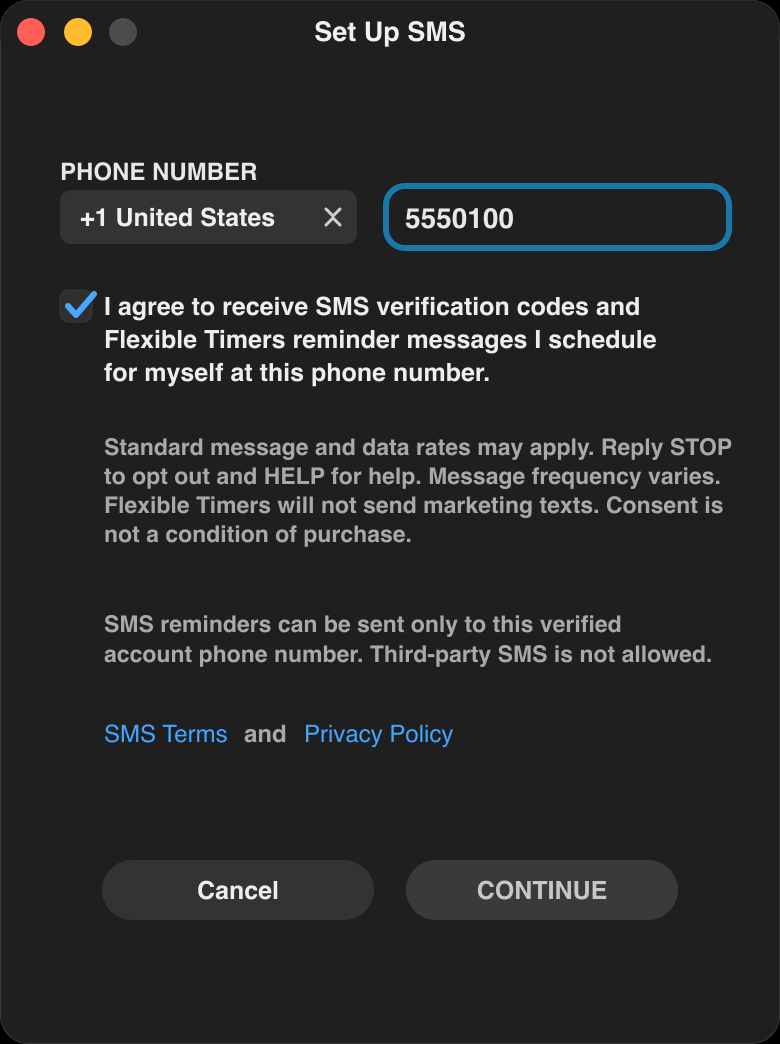
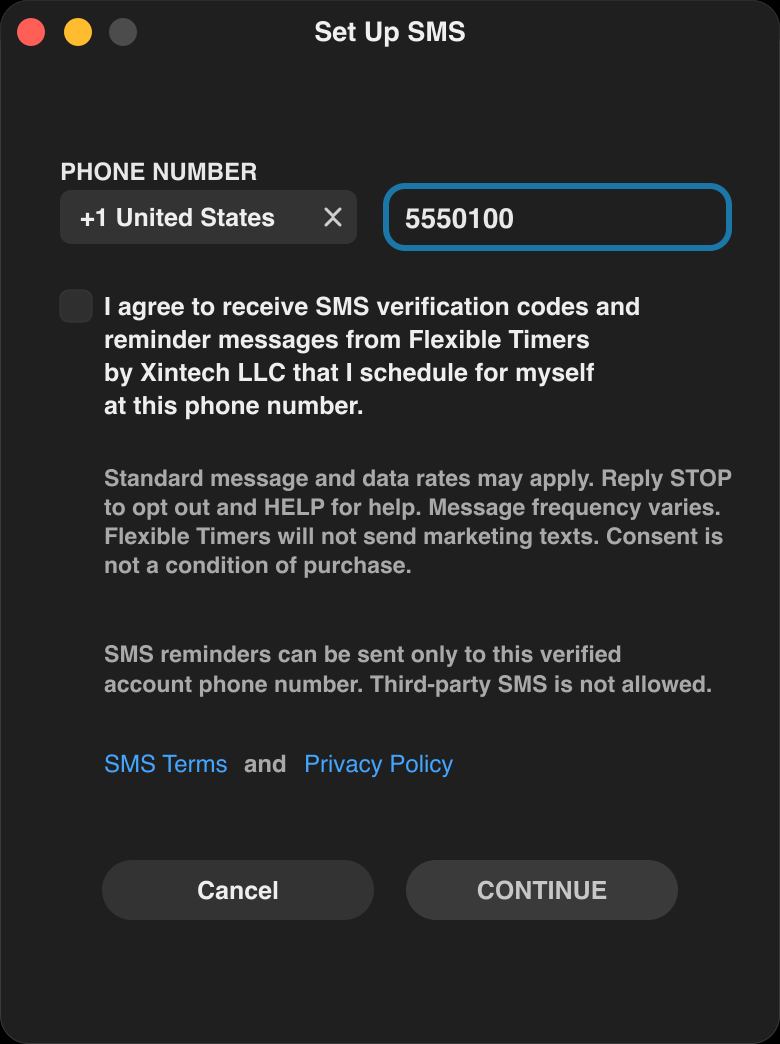
Clarify SMS opt-in compliance pages

Changed region(s): [[0.1231, 0.3065, 0.9538, 0.5517], [0.1231, 0.5824, 0.9231, 0.7356], [0.0923, 0.2759, 0.1231, 0.3065]]

diff --git a/index.html b/index.html
@@ -88,12 +88,12 @@
       </div>
     </header>
     <main id="top">
-      <section class="hero" aria-labelledby="hero-title"><div><h1 id="hero-title">Flexible Timers</h1><p class="hero-lede">Timers, countdowns, clocks, reports, sounds, and account reminders for Mac, iPhone, and iPad.</p></div><div class="hero-visual" aria-label="Flexible Timers app screenshots"><div class="device-stage"><div class="desktop-card"><div class="window-bar" aria-hidden="true"><span class="traffic"></span><span class="traffic"></span><span class="traffic"></span><span class="window-title">Flexible Timers for Mac</span></div><figure class="shot"><img src="assets/flexible-timers/macos/1-single-light.png" alt="Flexible Timers macOS main timer window in light mode" width="1800" height="1125" loading="eager"></figure></div><div class="phone-card" aria-label="Flexible Timers iPhone screenshot"><figure class="shot"><img src="assets/flexible-timers/ios/iphone-6.9-1-timers-light.png" alt="Flexible Timers iPhone timer list in light mode" width="736" height="1600" loading="eager"></figure></div><div class="tablet-card" aria-label="Flexible Timers iPad screenshot"><figure class="shot"><img src="assets/flexible-timers/ios/ipad-13-1-timers-light.png" alt="Flexible Timers iPad timer list in light mode" width="1200" height="1600" loading="eager"></figure></div></div></div></section>
+      <section class="hero" aria-labelledby="hero-title"><div><h1 id="hero-title">Flexible Timers</h1><p class="hero-lede">Timers, countdowns, clocks, reports, sounds, and account reminders for Mac, iPhone, and iPad. Operated by Xintech LLC.</p></div><div class="hero-visual" aria-label="Flexible Timers app screenshots"><div class="device-stage"><div class="desktop-card"><div class="window-bar" aria-hidden="true"><span class="traffic"></span><span class="traffic"></span><span class="traffic"></span><span class="window-title">Flexible Timers for Mac</span></div><figure class="shot"><img src="assets/flexible-timers/macos/1-single-light.png" alt="Flexible Timers macOS main timer window in light mode" width="1800" height="1125" loading="eager"></figure></div><div class="phone-card" aria-label="Flexible Timers iPhone screenshot"><figure class="shot"><img src="assets/flexible-timers/ios/iphone-6.9-1-timers-light.png" alt="Flexible Timers iPhone timer list in light mode" width="736" height="1600" loading="eager"></figure></div><div class="tablet-card" aria-label="Flexible Timers iPad screenshot"><figure class="shot"><img src="assets/flexible-timers/ios/ipad-13-1-timers-light.png" alt="Flexible Timers iPad timer list in light mode" width="1200" height="1600" loading="eager"></figure></div></div></div></section>
       <section class="section" id="features" aria-label="Flexible timer features"><div class="feature-grid"><article class="feature-card"><h3>Flexible task types</h3><p>Timers, end-time countdowns, world clocks, and account reminder tasks.</p></article><article class="feature-card"><h3>Task sets</h3><p>Separate work, cooking, study, travel, and reusable routines.</p></article><article class="feature-card"><h3>Reports and archives</h3><p>Review snapshots, add notes, and send reports to your account email.</p></article><article class="feature-card"><h3>Sounds and notifications</h3><p>Use bundled sounds, custom sounds, beeps, and local notifications.</p></article></div></section>
       <section class="section platform-section" aria-label="Flexible Timers platforms"><article class="platform" id="mac"><div class="platform-copy"><h2>Built for focused timer work on Mac.</h2><p>SwiftUI timers with task sets, reports, sync, custom sounds, and menu-bar status.</p><div class="platform-list"><div class="platform-item"><span class="check">✓</span><span>Single or expanded timer layouts.</span></div><div class="platform-item"><span class="check">✓</span><span>Menu-bar status for the active timer.</span></div><div class="platform-item"><span class="check">✓</span><span>Timers, countdowns, clocks, and reminder tasks.</span></div><div class="platform-item"><span class="check">✓</span><span>Sync, archives, reports, and custom sounds.</span></div></div></div><div class="shot-stack"><figure class="shot"><img src="assets/flexible-timers/macos/3-double-light.png" alt="Flexible Timers macOS expanded double-column timer window" width="1800" height="1125" loading="eager"></figure><div class="shot-row"><figure class="shot"><img src="assets/flexible-timers/macos/5-addtimer-light.png" alt="Flexible Timers macOS add timer sheet in light mode" width="1800" height="1125" loading="eager"></figure><figure class="shot"><img src="assets/flexible-timers/macos/7-addcountdown-light.png" alt="Flexible Timers macOS add countdown sheet in light mode" width="1800" height="1125" loading="eager"></figure></div></div></article><article class="platform reverse" id="ios"><div class="phone-showcase"><div class="phone-screen"><figure class="shot"><img src="assets/flexible-timers/ios/iphone-6.9-1-timers-light.png" alt="Flexible Timers iPhone screenshot" width="736" height="1600" loading="eager"></figure></div><div class="phone-screen"><figure class="shot"><img src="assets/flexible-timers/ios/iphone-6.9-4-add-light.png" alt="Flexible Timers iPhone screenshot" width="736" height="1600" loading="eager"></figure></div><div class="phone-screen"><figure class="shot"><img src="assets/flexible-timers/ios/iphone-6.9-6-settings-light.png" alt="Flexible Timers iPhone screenshot" width="736" height="1600" loading="eager"></figure></div><div class="phone-screen"><figure class="shot"><img src="assets/flexible-timers/ios/iphone-6.9-7-report-light.png" alt="Flexible Timers iPhone screenshot" width="736" height="1600" loading="eager"></figure></div></div><div class="platform-copy"><h2>The same timer system on iPhone and iPad.</h2><p>Timers, clocks, reports, settings, sync, notifications, and sounds on iPhone and iPad.</p><div class="platform-list"><div class="platform-item"><span class="check">✓</span><span>iPhone list and iPad grid layouts.</span></div><div class="platform-item"><span class="check">✓</span><span>Create timers, countdowns, clocks, and reminders.</span></div><div class="platform-item"><span class="check">✓</span><span>Reports, settings, sounds, and sync.</span></div></div></div></article></section>
       <section class="section" id="sync" aria-labelledby="sync-title"><div class="account-panel"><div><h2 id="sync-title">Sync, reports, and reminders.</h2><p>Keep timer data in your account and send updates only to your saved contact points.</p></div><div class="account-list"><div class="account-row"><strong>Sync across devices</strong><span>Task sets, archives, settings, and sounds follow your account.</span></div><div class="account-row"><strong>Email reports</strong><span>Send finished-timer reports to your signed-in account email.</span></div><div class="account-row"><strong>Personal reminders</strong><span>Reminders can notify your account email or verified phone.</span></div></div></div></section>
     </main>
-    <footer><div>© 2017-2026 Xintech LLC.</div><div class="footer-links"><a href="support.html">Support</a><a href="privacy.html">Privacy</a></div></footer>
+    <footer><div>© 2017-2026 Xintech LLC.</div><div class="footer-links"><a href="support.html">Support</a><a href="privacy.html">Privacy</a><a href="sms-terms.html">SMS Terms</a><a href="sms-opt-in.html">SMS Opt-In</a></div></footer>
   </div>
 </body>
 </html>

diff --git a/sms-opt-in.html b/sms-opt-in.html
@@ -3,20 +3,22 @@
 <head>
   <meta charset="utf-8">
   <meta name="viewport" content="width=device-width, initial-scale=1">
-  <title>Flexible Timers SMS Opt-In Evidence</title>
+  <title>Flexible Timers by Xintech LLC SMS Opt-In Evidence</title>
   <link rel="stylesheet" href="assets/flexible-timers/page.css">
 </head>
 <body>
   <main>
-    <h1>Flexible Timers SMS Opt-In Evidence</h1>
+    <h1>Flexible Timers by Xintech LLC SMS Opt-In Evidence</h1>
 
     <p>
       This page documents the Flexible Timers SMS opt-in flow for Twilio
-      toll-free verification. Flexible Timers SMS is limited to account phone
-      verification codes and user-created timer/reminder SMS sent only to a
-      signed-in user's own verified, opted-in account phone number. Flexible Timers does
-      not let users message arbitrary third parties, does not send marketing
-      text messages, and does not provide two-way SMS chat.
+      toll-free verification. Flexible Timers is operated by Xintech LLC. The
+      end business shown to users is Flexible Timers by Xintech LLC. Flexible
+      Timers SMS is limited to account phone verification codes and
+      user-created timer/reminder SMS sent only to a signed-in user's own
+      verified, opted-in account phone number. Flexible Timers does not let
+      users message arbitrary third parties, does not send marketing text
+      messages, and does not provide two-way SMS chat.
     </p>
 
     <h2>Opt-In Flow</h2>
@@ -25,7 +27,8 @@
       <li>User opens Account Info.</li>
       <li>User opens Set Up SMS.</li>
       <li>User enters their own phone number.</li>
-      <li>User checks the SMS consent checkbox.</li>
+      <li>The SMS consent checkbox is not pre-selected.</li>
+      <li>User affirmatively checks the SMS consent checkbox.</li>
       <li>User can open the SMS Terms and Privacy Policy links from the same screen.</li>
       <li>User clicks Continue to request a one-time verification code.</li>
       <li>
@@ -36,23 +39,24 @@
 
     <h2>Consent Language</h2>
     <p class="quote">
-      I agree to receive SMS verification codes and Flexible Timers reminder
-      messages I schedule for myself at this phone number. Standard message and
-      data rates may apply. Reply STOP to opt out and HELP for help. Message
-      frequency varies. Flexible Timers will not send marketing texts. Consent
-      is not a condition of purchase.
+      I agree to receive SMS verification codes and reminder messages from
+      Flexible Timers by Xintech LLC that I schedule for myself at this phone
+      number. Standard message and data rates may apply. Reply STOP to opt out
+      and HELP for help. Message frequency varies. Flexible Timers will not
+      send marketing texts. Consent is not a condition of purchase.
     </p>
 
     <h2>Screenshot</h2>
     <p>
-      The opt-in screen shows the phone number field, affirmative checkbox,
-      consent language, SMS Terms link, Privacy Policy link, STOP/HELP wording,
-      message frequency disclosure, message/data rates disclosure, and the
-      owner-phone-only SMS scope.
+      The opt-in screen shows the phone number field, an unchecked affirmative
+      checkbox, consent language naming Flexible Timers by Xintech LLC, SMS
+      Terms link, Privacy Policy link, STOP/HELP wording, message frequency
+      disclosure, message/data rates disclosure, and the owner-phone-only SMS
+      scope.
     </p>
     <img
       src="assets/sms-consent.png"
-      alt="Flexible Timers SMS consent screen showing phone entry, consent checkbox, terms, privacy, STOP and HELP language">
+      alt="Flexible Timers by Xintech LLC SMS consent screen showing phone entry, an unchecked consent checkbox, terms, privacy, STOP and HELP language">
 
     <h2>Sample Production Messages</h2>
     <p class="quote">
@@ -77,7 +81,7 @@
     <p class="quote">
       HELP response: Flexible Timers sends account verification codes and
       reminder SMS you schedule for yourself. Help:
-      https://xintechllc.com/FlexibleTimers/support.html. Reply STOP to opt out.
+      https://xintechllc.com/support.html. Reply STOP to opt out.
     </p>
     <p class="quote">
       START response: You have opted back in to Flexible Timers SMS messages.
@@ -91,7 +95,7 @@
       <a href="support.html">Support</a>
     </div>
 
-    <p>Last updated: June 6, 2026.</p>
+    <p>Last updated: June 15, 2026.</p>
   </main>
 </body>
 </html>

diff --git a/sms-terms.html b/sms-terms.html
@@ -3,35 +3,37 @@
 <head>
   <meta charset="utf-8">
   <meta name="viewport" content="width=device-width, initial-scale=1">
-  <title>Flexible Timers SMS Terms</title>
+  <title>Flexible Timers by Xintech LLC SMS Terms</title>
   <link rel="stylesheet" href="assets/flexible-timers/page.css">
 </head>
 <body>
   <main>
-    <h1>Flexible Timers SMS Terms</h1>
+    <h1>Flexible Timers by Xintech LLC SMS Terms</h1>
 
     <p>
-      Flexible Timers may send SMS messages only to a phone number that a signed-in
-      user adds, verifies, and opts into as their own account phone number. The current SMS
-      program is limited to account phone verification codes and user-created
-      timer/reminder SMS that the user schedules for themselves. Flexible Timers
-      does not send marketing text messages and does not allow users to send SMS
-      to arbitrary third-party recipients. Flexible Timers SMS is not a two-way
-      chat or conversation service; inbound keywords are used only for STOP, HELP,
-      START, and YES compliance handling.
+      Flexible Timers is operated by Xintech LLC. Flexible Timers may send SMS
+      messages only to a phone number that a signed-in user adds, verifies, and
+      opts into as their own account phone number. The current SMS program is
+      limited to account phone verification codes and user-created timer/reminder
+      SMS that the user schedules for themselves. Flexible Timers does not send
+      marketing text messages and does not allow users to send SMS to arbitrary
+      third-party recipients. Flexible Timers SMS is not a two-way chat or
+      conversation service; inbound keywords are used only for STOP, HELP, START,
+      and YES compliance handling.
     </p>
 
     <h2>Opt-In</h2>
     <p>
       Users opt in inside the Flexible Timers app by entering their phone number
-      and checking a box that says: "I agree to receive SMS verification codes
-      and Flexible Timers reminder messages I schedule for myself at this phone
-      number." The opt-in screen also displays these SMS Terms, the Privacy
-      Policy, standard message and data rate disclosure, STOP and HELP
+      and affirmatively checking a box that is not pre-selected. The checkbox
+      says: "I agree to receive SMS verification codes and reminder messages
+      from Flexible Timers by Xintech LLC that I schedule for myself at this
+      phone number." The opt-in screen also displays these SMS Terms, the
+      Privacy Policy, standard message and data rate disclosure, STOP and HELP
       instructions, message frequency information, and no-marketing language.
       Consent is not a condition of purchase.
       See the opt-in evidence page at
-      <a href="sms-opt-in.html">xintechllc.com/FlexibleTimers/sms-opt-in.html</a>.
+      <a href="sms-opt-in.html">xintechllc.com/sms-opt-in.html</a>.
     </p>
 
     <h2>Message Frequency</h2>
@@ -59,7 +61,7 @@
     <h2>Help</h2>
     <p>
       Reply HELP for help. You can also contact Flexible Timers support at
-      <a href="support.html">xintechllc.com/FlexibleTimers/support.html</a>.
+      <a href="support.html">xintechllc.com/support.html</a>.
     </p>
 
     <h2>SMS Keywords and Responses</h2>
@@ -71,7 +73,7 @@
     <p>
       HELP requests support information. The expected HELP response is:
       "Flexible Timers sends account verification codes and reminder SMS you
-      schedule for yourself. Help: https://xintechllc.com/FlexibleTimers/support.html. Reply
+      schedule for yourself. Help: https://xintechllc.com/support.html. Reply
       STOP to opt out."
     </p>
     <p>
@@ -90,10 +92,10 @@
     <h2>Privacy</h2>
     <p>
       See the Flexible Timers Privacy Policy at
-      <a href="privacy.html">xintechllc.com/FlexibleTimers/privacy.html</a>.
+      <a href="privacy.html">xintechllc.com/privacy.html</a>.
     </p>
 
-    <p>Last updated: June 6, 2026.</p>
+    <p>Last updated: June 15, 2026.</p>
   </main>
 </body>
 </html>

diff --git a/privacy.html b/privacy.html
@@ -3,20 +3,21 @@
 <head>
   <meta charset="utf-8">
   <meta name="viewport" content="width=device-width, initial-scale=1">
-  <title>Flexible Timers Privacy Policy</title>
+  <title>Flexible Timers by Xintech LLC Privacy Policy</title>
   <link rel="stylesheet" href="assets/flexible-timers/page.css">
 </head>
 <body>
   <main>
-    <h1>Flexible Timers Privacy Policy</h1>
+    <h1>Flexible Timers by Xintech LLC Privacy Policy</h1>
 
     <p>
-      Flexible Timers uses account information to provide timer, reminder,
-      account, synchronization, report, and message features. Flexible Timers
-      currently sends email reports and email messages only to the signed-in
-      user's own account email address. This policy also describes the SMS
-      privacy terms for account phone verification and user-created SMS
-      reminders sent only to the user's own verified, opted-in account phone number.
+      Flexible Timers is operated by Xintech LLC. Flexible Timers uses account
+      information to provide timer, reminder, account, synchronization, report,
+      and message features. Flexible Timers currently sends email reports and
+      email messages only to the signed-in user's own account email address.
+      This policy also describes the SMS privacy terms for account phone
+      verification and user-created SMS reminders sent only to the user's own
+      verified, opted-in account phone number.
     </p>
 
     <h2>Information Collected for Email</h2>
@@ -69,10 +70,10 @@
     <h2>Contact</h2>
     <p>
       For support, see
-      <a href="support.html">xintechllc.com/FlexibleTimers/support.html</a>.
+      <a href="support.html">xintechllc.com/support.html</a>.
     </p>
 
-    <p>Last updated: June 6, 2026.</p>
+    <p>Last updated: June 15, 2026.</p>
   </main>
 </body>
 </html>

diff --git a/compliance.html b/compliance.html
@@ -11,8 +11,8 @@
     <h1>Flexible Timers Compliance</h1>
 
     <p>
-      Flexible Timers is a macOS timer app for creating timers, countdowns,
-      clocks, and account-based reminder workflows.
+      Flexible Timers is a Mac, iPhone, and iPad timer app for creating timers,
+      countdowns, clocks, reports, and account-based reminder workflows.
     </p>
 
     <p>
@@ -22,15 +22,16 @@
     <h2>Support</h2>
     <p>
       For support, see
-      <a href="support.html">xintechllc.com/FlexibleTimers/support.html</a>.
+      <a href="support.html">xintechllc.com/support.html</a>.
     </p>
 
     <h2>Messaging Compliance</h2>
     <p>
-      Flexible Timers SMS is limited to account phone verification codes and
-      user-created timer/reminder SMS sent only to a signed-in user's own
-      verified, opted-in account phone number. Third-party recipient messaging is not
-      enabled. SMS is not a two-way chat or conversation service.
+      Flexible Timers by Xintech LLC SMS is limited to account phone
+      verification codes and user-created timer/reminder SMS sent only to a
+      signed-in user's own verified, opted-in account phone number. Third-party
+      recipient messaging is not enabled. SMS is not a two-way chat or
+      conversation service.
     </p>
 
     <p>
@@ -49,7 +50,7 @@
       <a href="assets/sms-consent.png">SMS opt-in screenshot evidence</a>
     </div>
 
-    <p>Last updated: June 6, 2026.</p>
+    <p>Last updated: June 15, 2026.</p>
   </main>
 </body>
 </html>

diff --git a/support.html b/support.html
@@ -11,8 +11,8 @@
     <h1>Flexible Timers Support</h1>
 
     <p>
-      Flexible Timers is operated by Xintech LLC. For product support, bug reports,
-      or account questions, open a support issue on GitHub.
+      Flexible Timers is operated by Xintech LLC. For product support, bug
+      reports, account questions, or SMS help, open a support issue on GitHub.
     </p>
 
     <h2>Support Contact</h2>
@@ -22,11 +22,12 @@
 
     <h2>Messaging Help</h2>
     <p>
-      Flexible Timers SMS is limited to account phone verification codes and
-      user-created reminder SMS sent only to the signed-in user's own verified,
-      opted-in account phone number. Reply STOP to opt out of SMS messages. Reply HELP
-      for help. Reply START or YES to opt back in after consenting in the app.
-      SMS is not a two-way chat service.
+      Flexible Timers by Xintech LLC SMS is limited to account phone
+      verification codes and user-created reminder SMS sent only to the
+      signed-in user's own verified, opted-in account phone number. Reply STOP
+      to opt out of SMS messages. Reply HELP for help. Reply START or YES to
+      opt back in after consenting in the app. SMS is not a two-way chat
+      service.
     </p>
 
     <p>
@@ -40,7 +41,7 @@
       <a href="sms-terms.html">SMS Terms</a>.
     </p>
 
-    <footer>(c) 2026 Xintech LLC. All rights reserved.</footer>
+    <footer>© 2026 Xintech LLC. All rights reserved.</footer>
   </main>
 </body>
 </html>
